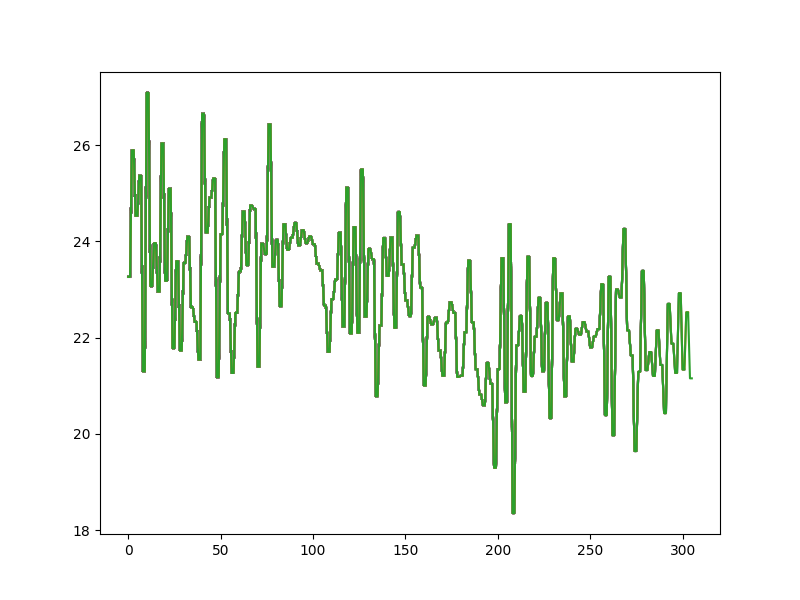
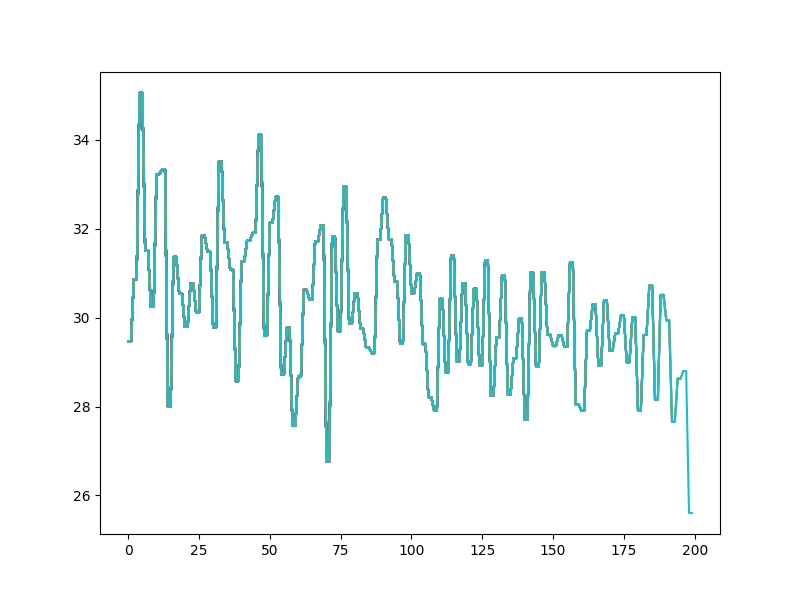
work with 4.1.0

diff --git a/memory_perceiver/isaac/trainer.py b/memory_perceiver/isaac/trainer.py
@@ -7,7 +7,7 @@ from einops import repeat, rearrange
 def init_history(history_keys, sim_duration, num_envs, action_dim, device):
     history = { key: torch.zeros(sim_duration, num_envs, device=device) for key in history_keys}
     history['actions'] = torch.zeros(sim_duration, num_envs, action_dim, device=device)
-    history['generator'] = torch.zeros(sim_duration, torch.cuda.device_count(), 816, dtype=torch.uint8) # must be on cpu
+    history['generator'] = torch.zeros(sim_duration, torch.cuda.device_count(), 16, dtype=torch.uint8) # must be on cpu
     return history
 
 def buffer_padding(buffer, dim, default_value=None, frames=32, num_envs=1):
